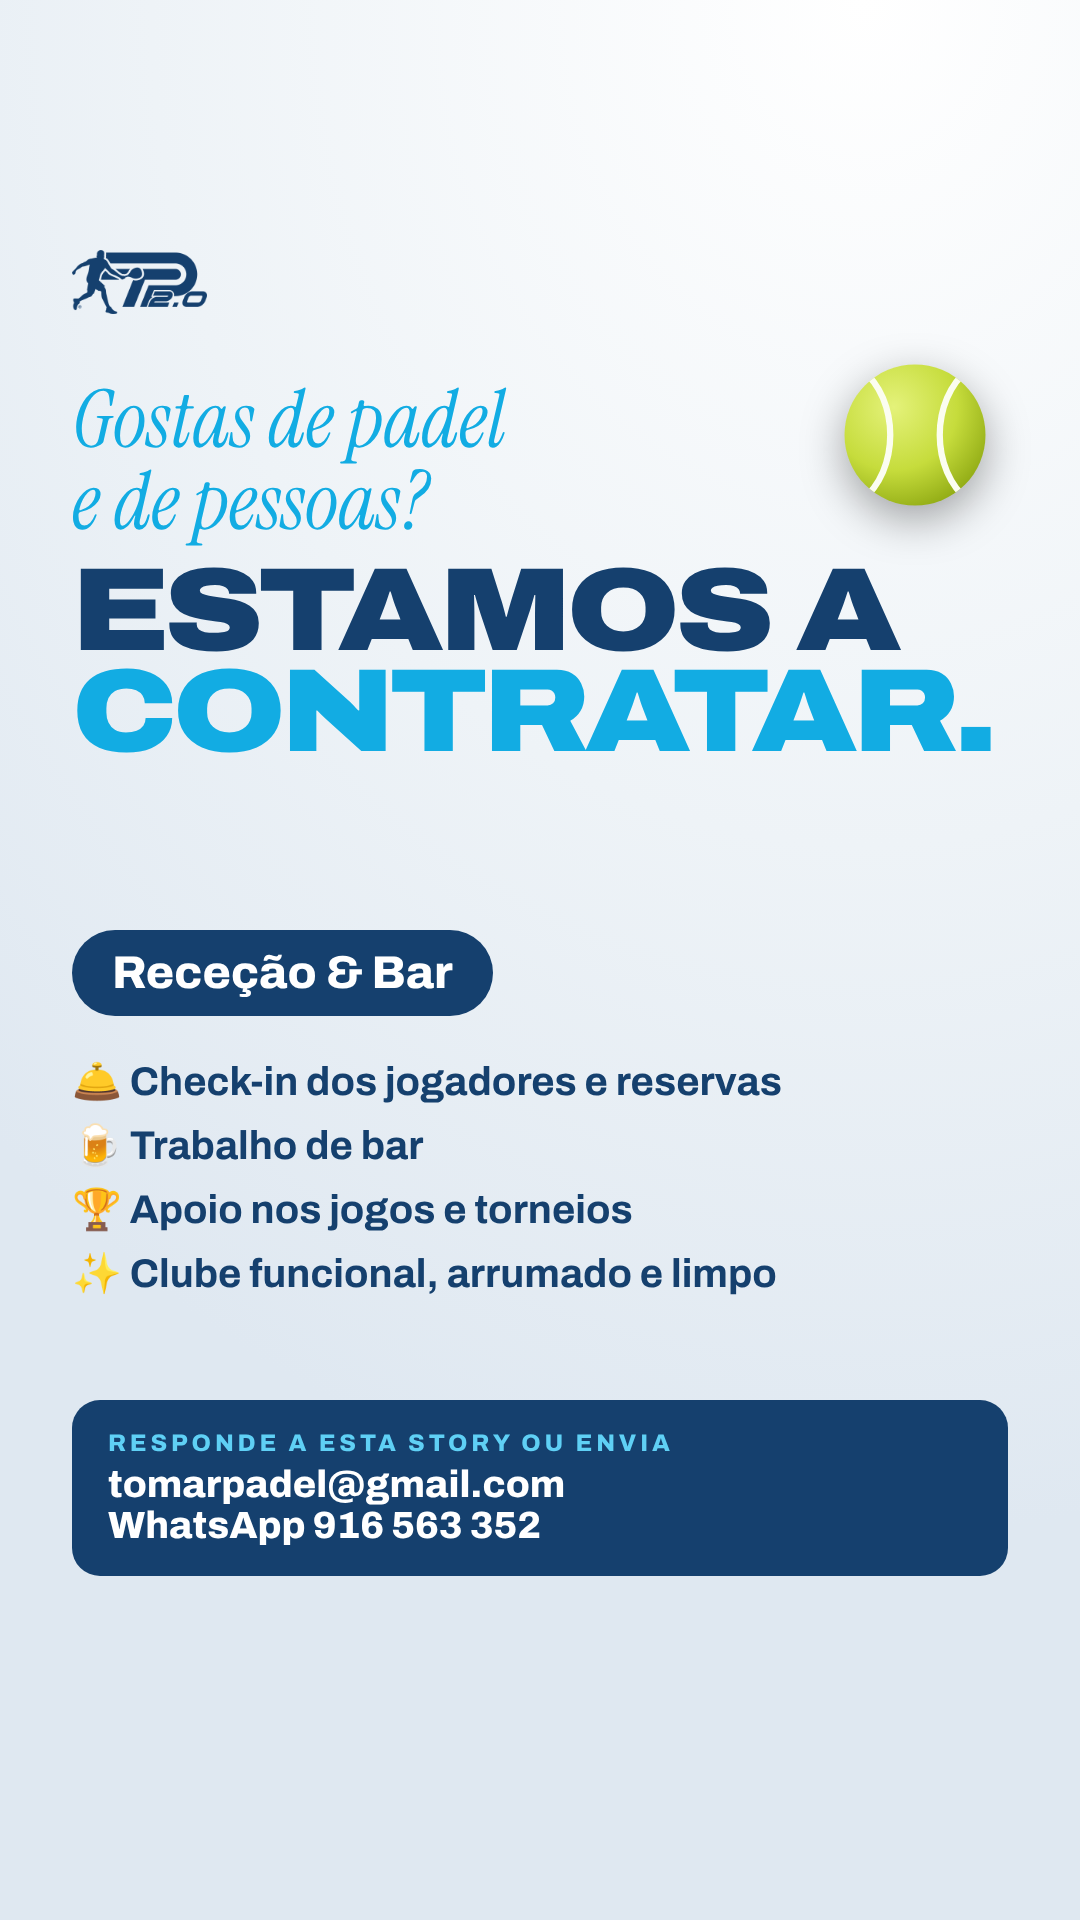
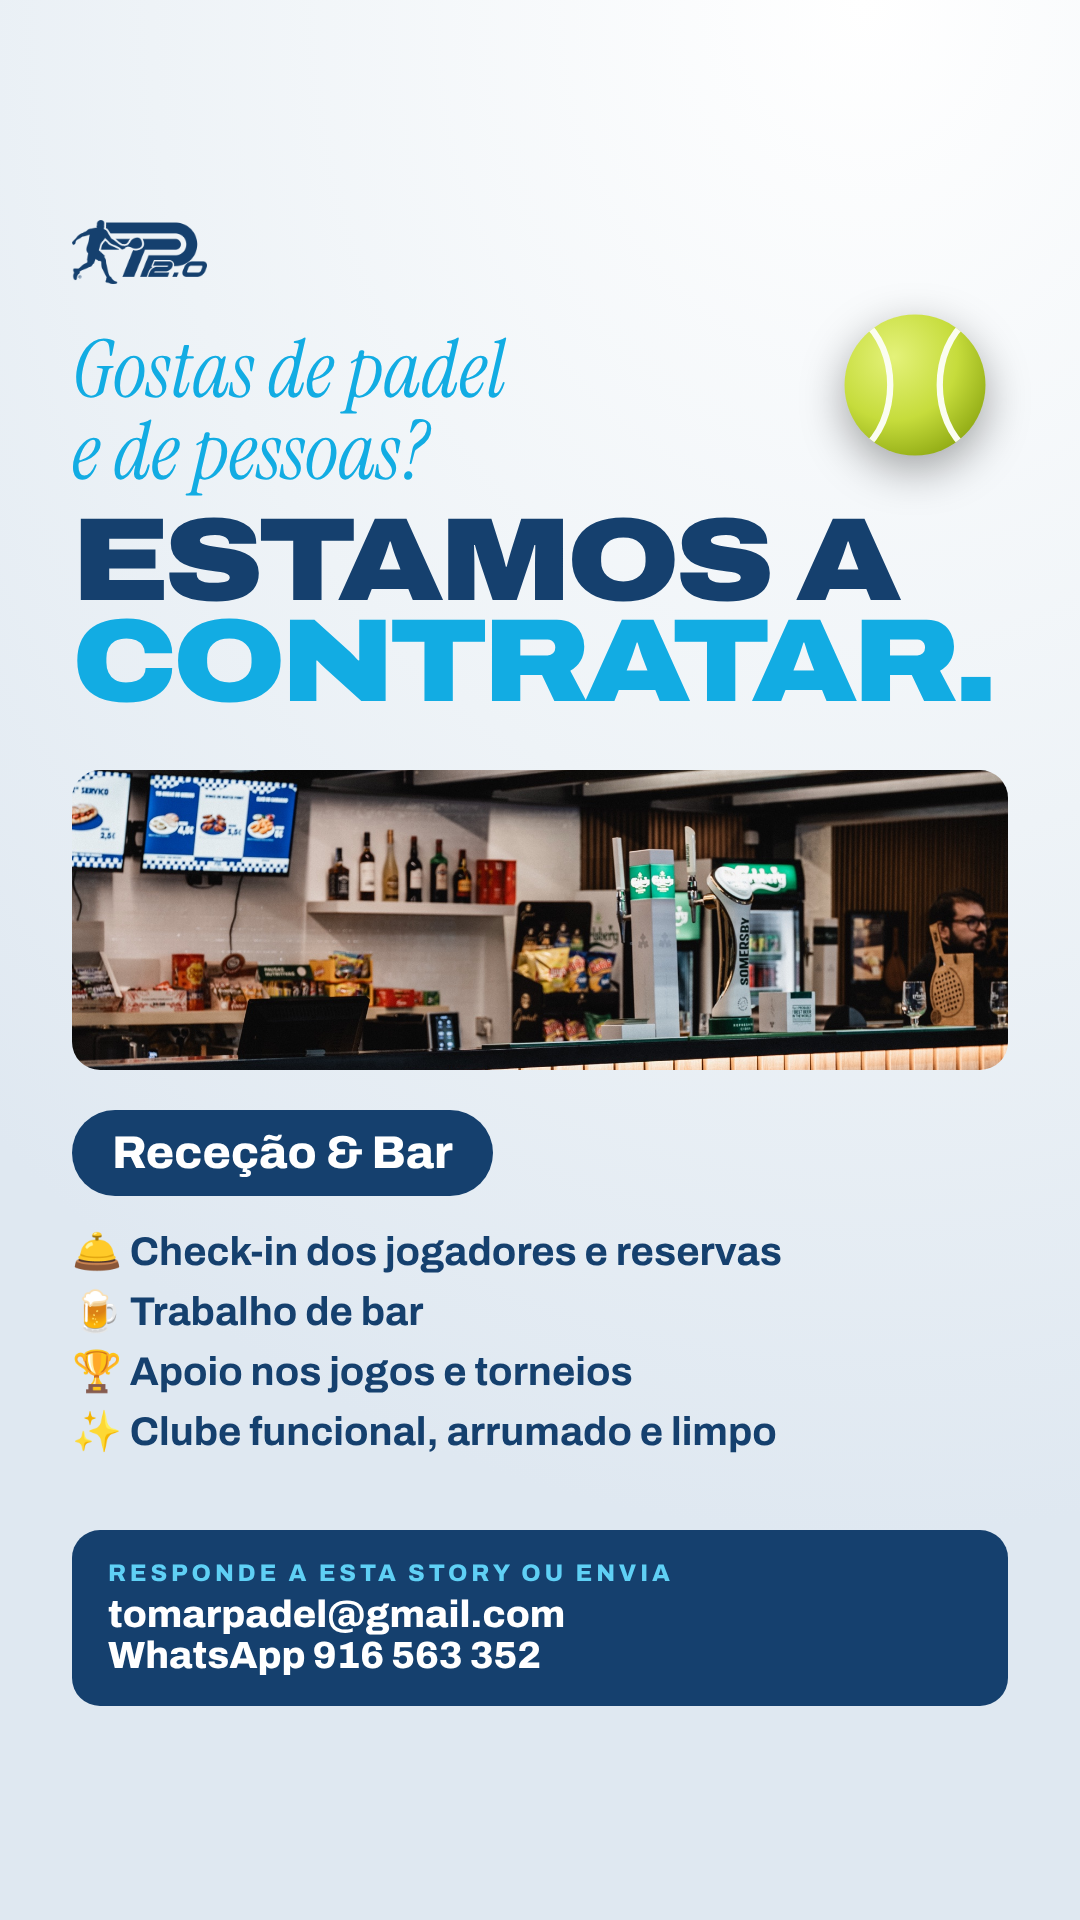
Story recrutamento proporcionada
Claude-Session: https://claude.ai/code/session_01YAkTQk1jS2UJe1ngAj8tnN

diff --git a/src/recr/gen2.py b/src/recr/gen2.py
@@ -60,18 +60,19 @@ s3=doc(1350,f'''
 <img src="{A}logos/azul_vertical.png" style="height:180px"></div>''')
 # STORY
 st=doc(1920,f'''
-<img class="lg" src="{A}logos/branco_simbolo20.png" style="left:72px;top:250px">
-<div style="position:absolute;left:72px;top:380px" class="sr acc"><span style="font-size:80px;line-height:1.02">Gostas de padel<br>e de pessoas?</span></div>
-<div style="position:absolute;left:72px;top:560px"><div class="big" id="v" style="line-height:.86">Estamos a</div><div class="big acc" id="a" style="line-height:.86">contratar.</div></div>
-<div style="position:absolute;left:72px;right:72px;top:930px">
+<img class="lg" src="{A}logos/branco_simbolo20.png" style="left:72px;top:220px">
+<div style="position:absolute;left:72px;top:330px" class="sr acc"><span style="font-size:80px;line-height:1.02">Gostas de padel<br>e de pessoas?</span></div>
+<div style="position:absolute;left:72px;top:510px"><div class="big" id="v" style="line-height:.86">Estamos a</div><div class="big acc" id="a" style="line-height:.86">contratar.</div></div>
+<div style="position:absolute;left:72px;right:72px;top:770px;height:300px;border-radius:28px;overflow:hidden"><img src="{A}assets/fotos-out2026/foto-05.jpg" style="width:100%;height:100%;object-fit:cover;object-position:50% 38%"></div>
+<div style="position:absolute;left:72px;right:72px;top:1110px">
 <div class="chip" style="font-size:46px;padding:18px 40px">Receção &amp; Bar</div>
-<div style="margin-top:34px;font-size:40px;font-weight:700;line-height:1.6">
+<div style="margin-top:26px;font-size:40px;font-weight:700;line-height:1.5">
 <div>🛎 Check-in dos jogadores e reservas</div><div>🍺 Trabalho de bar</div><div>🏆 Apoio nos jogos e torneios</div><div>✨ Clube funcional, arrumado e limpo</div></div></div>
-<div style="position:absolute;left:72px;right:72px;top:1400px;background:#fff;color:#15406e;border-radius:28px;padding:30px 36px">
+<div style="position:absolute;left:72px;right:72px;top:1530px;background:#fff;color:#15406e;border-radius:28px;padding:30px 36px">
 <div style="font-weight:800;font-size:24px;letter-spacing:.16em;text-transform:uppercase;color:#12ace3">Responde a esta story ou envia</div>
 <div style="font-weight:800;font-size:38px;margin-top:8px">tomarpadel@gmail.com</div>
 <div style="font-weight:800;font-size:38px">WhatsApp 916 563 352</div></div>
-''').replace('</body>',ball.replace('W','150').replace('POS','right:90px;top:360px')+'</body>')
+''').replace('</body>',ball.replace('W','150').replace('POS','right:90px;top:310px')+'</body>')
 def light(d):
     R=[('background:radial-gradient(120% 80% at 80% 0%,#1d5a96 0%,#15406e 45%,#0c2a4c 100%)','background:radial-gradient(120% 80% at 80% 0%,#ffffff 0%,#eef3f7 55%,#dfe8f1 100%)'),
     ('color:#fff;background:radial','color:#15406e;background:radial'),('.acc{color:#5fd0f5}','.acc{color:#12ace3}'),
@@ -82,7 +83,7 @@ def light(d):
     ('.dots i{width:12px;height:12px;border-radius:50%;background:rgba(255,255,255,.3)}.dots i.on{background:#fff','.dots i{width:12px;height:12px;border-radius:50%;background:rgba(21,64,110,.25)}.dots i.on{background:#15406e'),
     ('height:250px;background:#fff;color:#15406e','height:250px;background:#15406e;color:#fff'),('color:#12ace3">Candidata-te já','color:#5fd0f5">Candidata-te já'),
     ('<img src="'+A+'logos/azul_vertical.png" style="height:180px">','<img src="'+A+'logos/branco_vertical.png" style="height:180px">'),
-    ('top:1400px;background:#fff;color:#15406e','top:1400px;background:#15406e;color:#fff'),('color:#12ace3">Responde','color:#5fd0f5">Responde'),
+    ('top:1530px;background:#fff;color:#15406e','top:1530px;background:#15406e;color:#fff'),('color:#12ace3">Responde','color:#5fd0f5">Responde'),
     ('box-shadow:0 20px 50px rgba(0,0,0,.3)','box-shadow:0 20px 50px rgba(0,0,0,.12)')]
     for a,b in R: d=d.replace(a,b)
     return d
